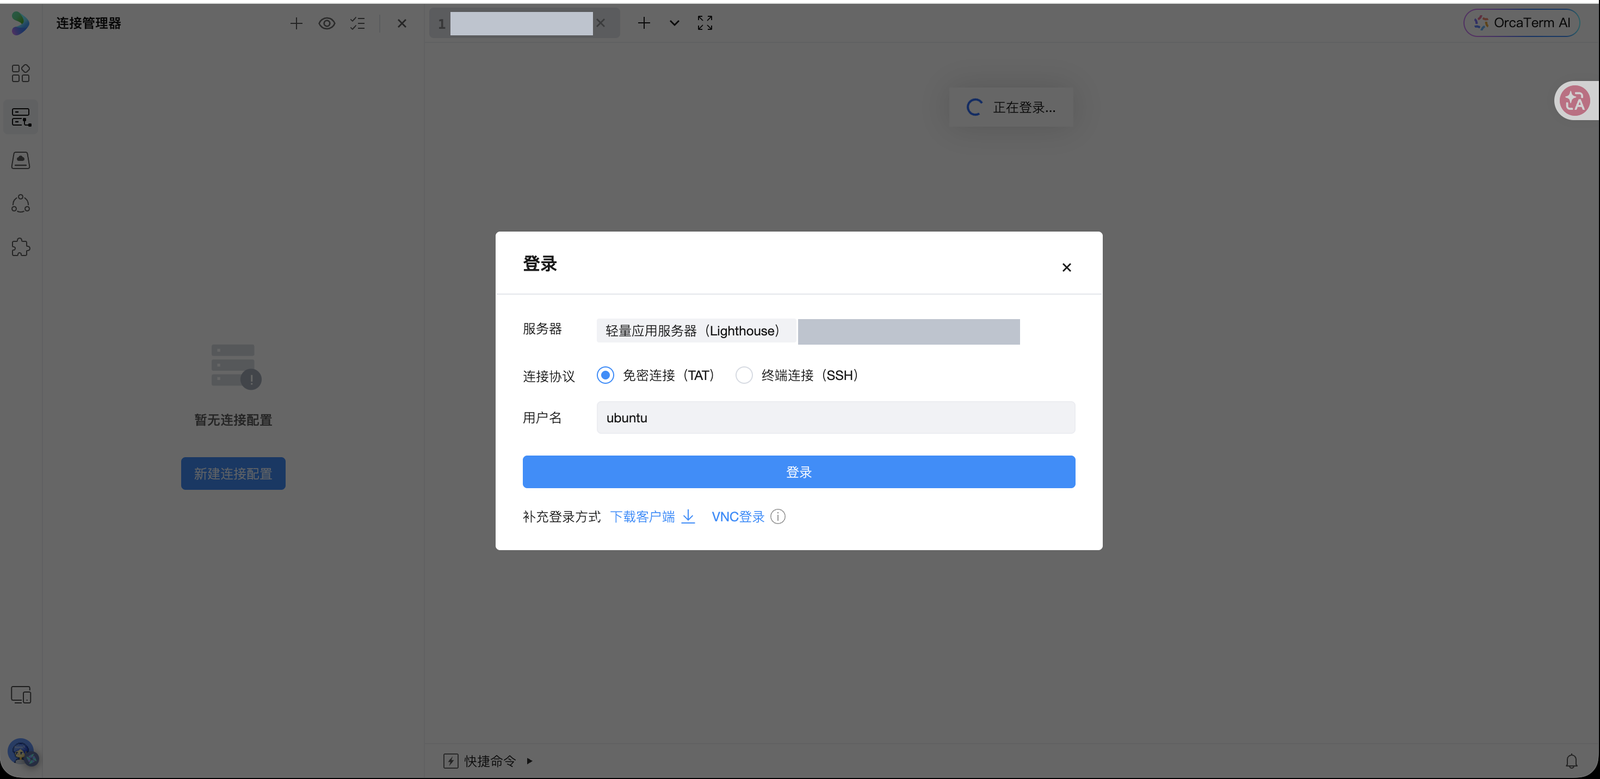
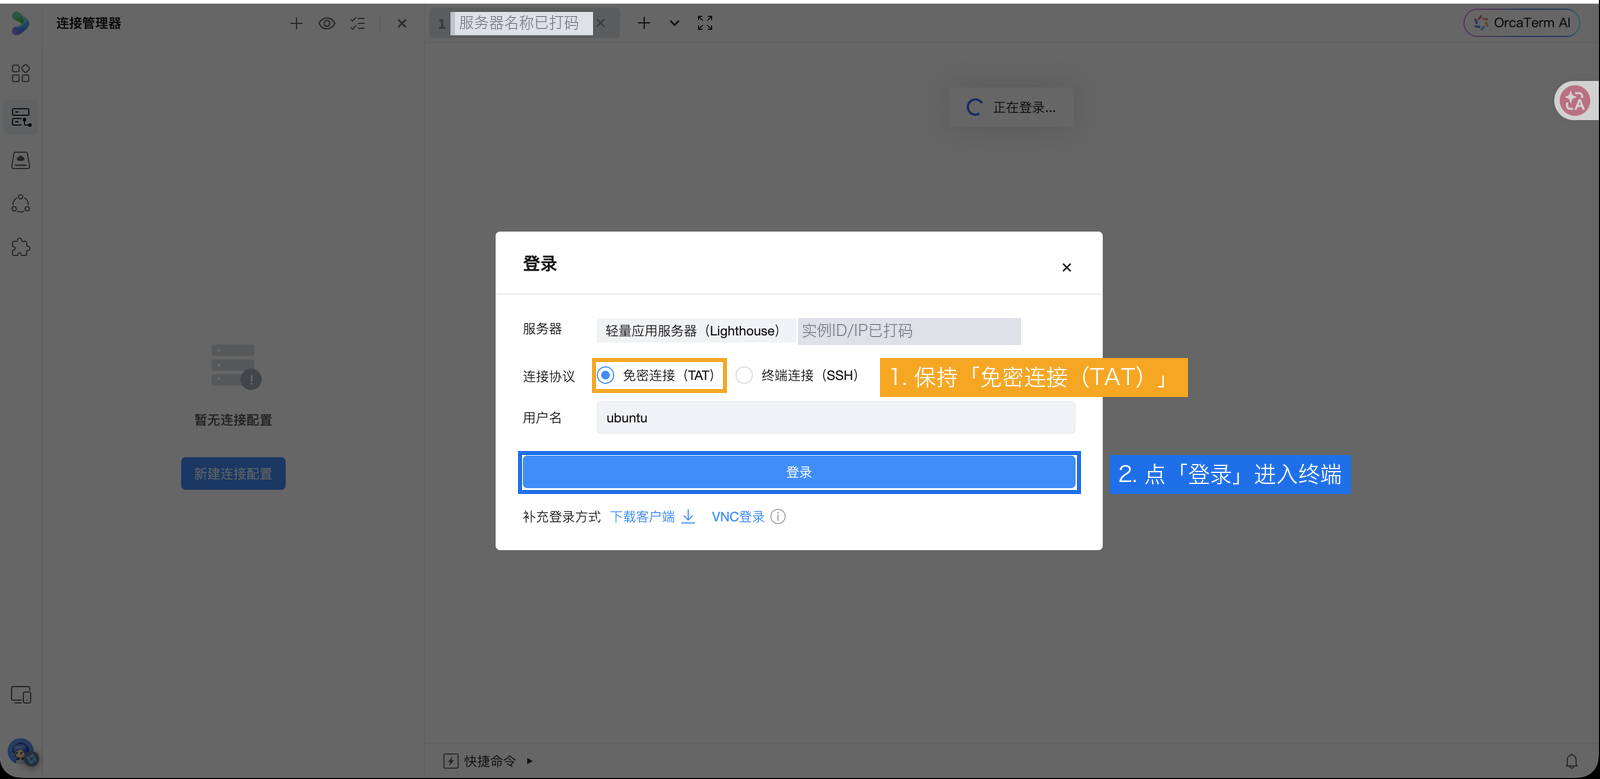
docs: 截图按老教程风格加彩色框与步骤标题；新增 03b DeepSeek 切换模型过程图；购买页价格打码；删除「全屋灯带」示例

diff --git a/index.html b/index.html
@@ -365,6 +365,7 @@
           <a class="card" href="https://platform.deepseek.com" target="_blank" rel="noreferrer"><h3>DeepSeek 开放平台 / 获取 API Key</h3><p>注册后在控制台创建 API Key。</p></a>
         </div>
         <img class="screenshot" src="screenshots/03-agent-settings.png" alt="Lighthouse Agent 控制台的设置页：模型、通道、技能三栏，DeepSeek 已应用中">
+        <img class="screenshot" src="screenshots/03b-deepseek-switch.png" alt="切换模型：展开深度求索（DeepSeek），选 DeepSeek V4.1 Flash，点切换为默认">
         <div class="notice">配置好后回到「对话」页，输入框右下角显示「DeepSeek …」即表示模型已生效。</div>
       </section>
 
@@ -445,7 +446,6 @@
         <div class="grid">
           <div class="card">客厅来个马尔代夫的海边日落。</div>
           <div class="card">二楼客厅来一个森林晨光。</div>
-          <div class="card">全屋灯带做一个朋友聚会氛围。</div>
         </div>
         <div class="notice">
           <p>龙虾发出灯光请求后，只需要现场观察灯光是否变化。</p>

diff --git a/打开这个教程.html b/打开这个教程.html
@@ -345,6 +345,7 @@
           <a class="card" href="https://platform.deepseek.com" target="_blank" rel="noreferrer"><h3>DeepSeek 开放平台 / 获取 API Key</h3><p>注册后在控制台创建 API Key。</p></a>
         </div>
         <img class="screenshot" src="screenshots/03-agent-settings.png" alt="Lighthouse Agent 控制台的设置页：模型、通道、技能三栏，DeepSeek 已应用中">
+        <img class="screenshot" src="screenshots/03b-deepseek-switch.png" alt="切换模型：展开深度求索（DeepSeek），选 DeepSeek V4.1 Flash，点切换为默认">
         <div class="notice">配置好后回到「对话」页，输入框右下角显示「DeepSeek …」即表示模型已生效。</div>
       </section>
 
@@ -425,7 +426,6 @@
         <div class="grid">
           <div class="card">客厅来个马尔代夫的海边日落。</div>
           <div class="card">二楼客厅来一个森林晨光。</div>
-          <div class="card">全屋灯带做一个朋友聚会氛围。</div>
         </div>
         <div class="notice">
           <p>龙虾发出灯光请求后，只需要现场观察灯光是否变化。</p>

diff --git a/screenshots/README.md b/screenshots/README.md
@@ -1,13 +1,14 @@
 # 教程截图清单（2026-09-16 按新版控制台更新）
 
-截图文件放在本目录。所有服务器 IP、实例 ID、服务器名、账号昵称、授权码、API Key 均已打码。「安装馨光 Skill」和「测试灯光效果」两步暂无新版界面截图，教程以文字说明；在新版 Agent 控制台完成这两步后按下列文件名补拍：`09-skill-install.png`（发送安装馨光 Skill 与安装完成提示）、`11-light-command.png`（灯光测试语句与观察提示）。
+截图文件放在本目录。标注风格统一：橙色框=第 1 步、蓝色框=第 2 步、红色框=第 3 步/关键动作，框旁带步骤标题；打码处灰底并标注「xx已打码」。所有服务器 IP、实例 ID、服务器名、账号昵称、授权码、API Key 均已打码。「安装馨光 Skill」和「测试灯光效果」两步暂无新版界面截图，教程以文字说明；在新版 Agent 控制台完成这两步后按下列文件名补拍：`09-skill-install.png`（发送安装馨光 Skill 与安装完成提示）、`11-light-command.png`（灯光测试语句与观察提示）。
 
 | 文件名 | 状态 | 截图内容 | 拍摄要点 |
 |---|---|---|---|
-| `01-server-create.png` | 沿用 | 腾讯云购买页，选中「龙虾」应用模板 | 高亮龙虾应用模板选择区域。 |
+| `01-server-create.png` | 沿用 | 腾讯云购买页，选中「龙虾」应用模板 | 高亮龙虾应用模板选择区域；活动价/折扣全部打码（价格随活动变）。 |
 | `02-app-manage.png` | 新版 | 服务器详情页「应用管理」：Lighthouse Agent 控制台入口 + 右上角「登录」按钮 | 已打码服务器名、IP、账号。 |
 | `02b-orcaterm-login.png` | 新版 | 点「登录」后 OrcaTerm 弹出的登录框，默认「免密连接（TAT）」 | 已打码实例 ID 与 IP。 |
-| `03-agent-settings.png` | 新版 | Agent 控制台「设置 → Agent 管理」：模型 / 通道 / 技能三栏 | 已打码服务器名、账号、DeepSeek Key 行。 |
+| `03-agent-settings.png` | 新版 | Agent 控制台「设置 → Agent 管理」：模型 / 通道 / 技能三栏 | 已打码服务器名、账号、DeepSeek Key 行；橙框=模型区，蓝框=微信通道。 |
+| `03b-deepseek-switch.png` | 新版 | 「切换模型」展开深度求索（DeepSeek）：API Key、DeepSeek V4.1 Flash、切换为默认 | 已打码服务器名、Key；三步彩框标注。 |
 | `04-terminal-progress.png` | 沿用 | 免密终端一键安装进度画面 | 已打码主机名。 |
 | `05-terminal-done.png` | 新版 | 终端 [100%] 完成画面，提示回到 Agent 控制台发送「绑定米家账号」，含龙虾版本提示 | 已打码主机名与服务器名。 |
 | `05a-create-snapshot.png` | 沿用 | 腾讯云快照页 | 已打码服务器信息，高亮「创建快照」。 |

diff --git a/README.md b/README.md
@@ -57,7 +57,6 @@ bash install-xinguang-ai-light.sh status
 ```text
 客厅来个马尔代夫的海边日落。
 二楼客厅来一个森林晨光。
-全屋灯带做一个朋友聚会氛围。
 ```
 
 灯光请求发出后，龙虾会提示你观察现场。
